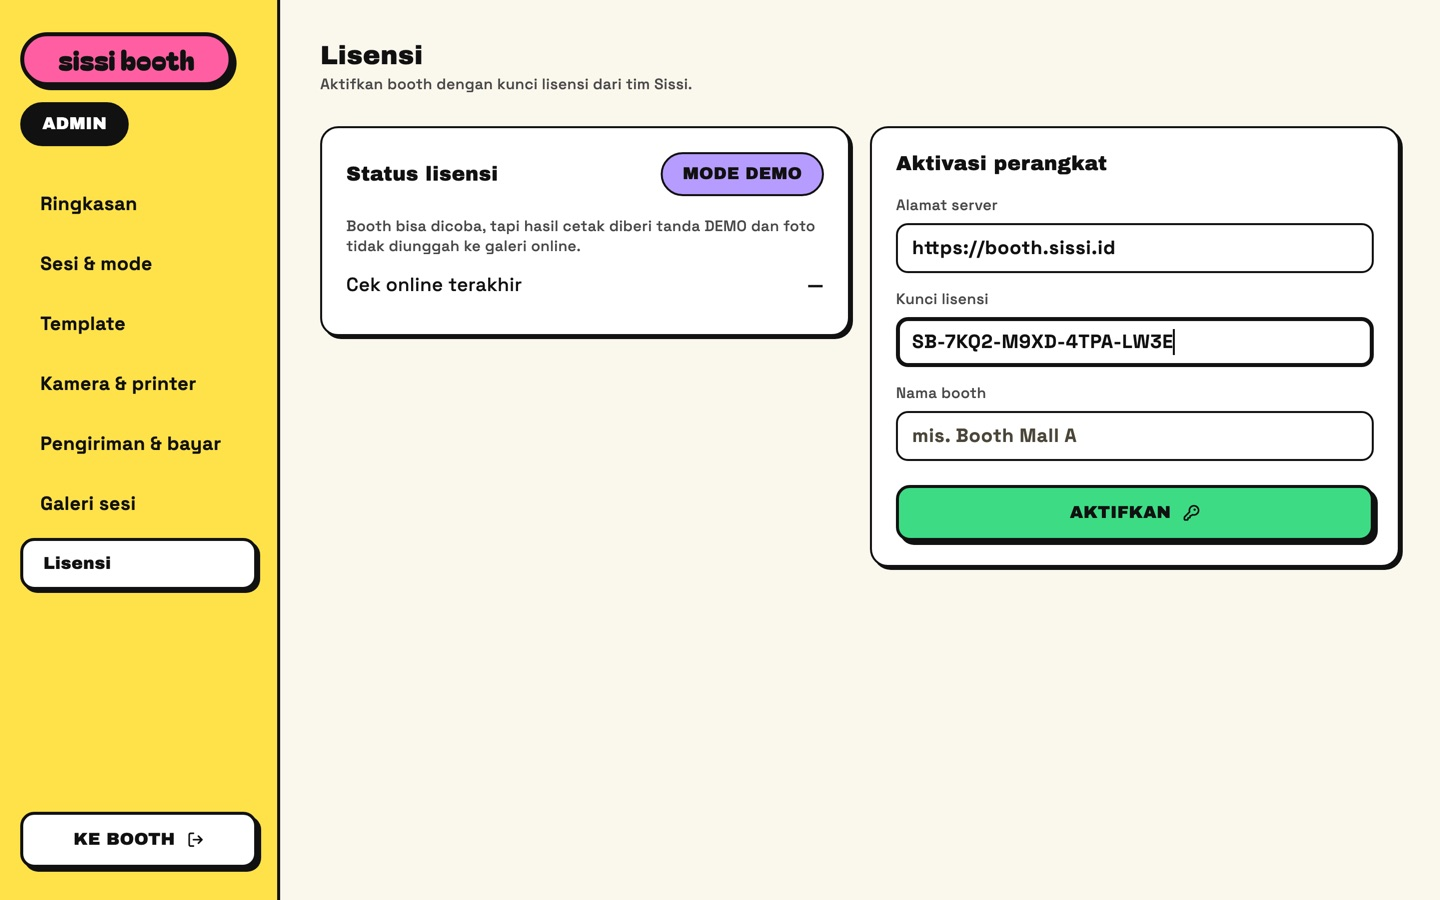
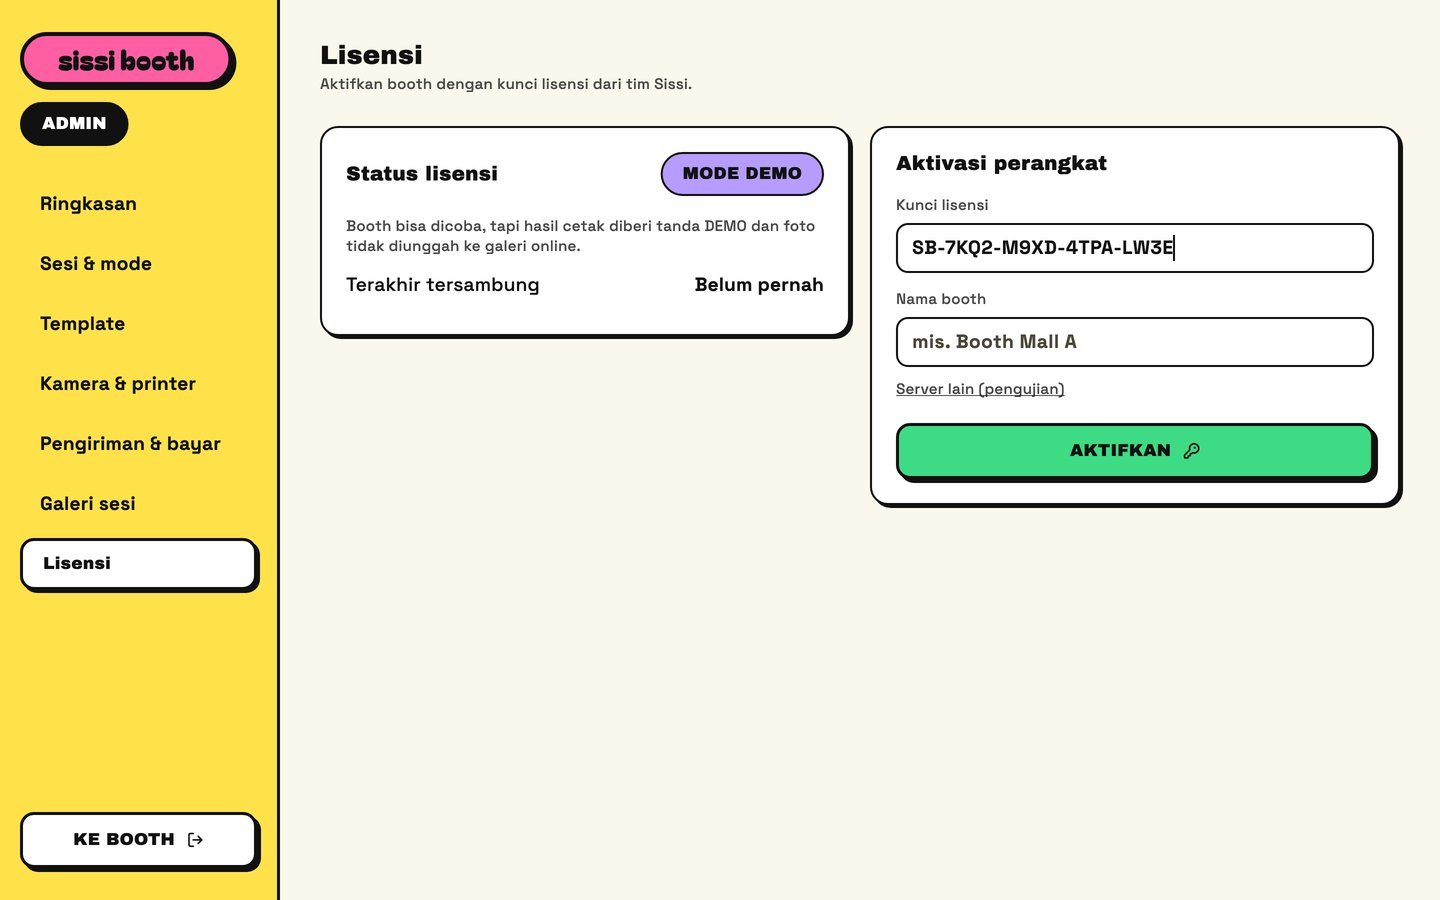
docs(panduan): harga QRIS segera hadir; gambar galeri & lisensi terbaru

diff --git a/src/constants/guides.ts b/src/constants/guides.ts
@@ -249,13 +249,13 @@ export const guides: Guide[] = [
       {
         id: "isi-kunci",
         title: "Isi kunci lisensi & nama booth",
-        body: "Cek alamat server (biasanya sudah terisi), ketik kunci lisensi, lalu beri nama booth supaya gampang dikenali, misalnya \"Booth Mall A\".",
-        shots: [img("aktifkan-lisensi", "nama.jpg", "Isian alamat server, kunci lisensi, dan nama booth")],
+        body: "Ketik kunci lisensi, lalu beri nama booth supaya gampang dikenali, misalnya \"Booth Mall A\". Alamat server sudah terisi otomatis.",
+        shots: [img("aktifkan-lisensi", "nama.jpg", "Isian kunci lisensi dan nama booth")],
       },
       {
         id: "aktifkan",
         title: "Ketuk AKTIFKAN",
-        body: "Ketuk AKTIFKAN. Setelah berhasil, status berubah jadi AKTIF dan terlihat paket, tanggal berlaku sampai, serta batas boleh offline.",
+        body: "Ketuk AKTIFKAN. Setelah berhasil, status berubah jadi AKTIF dan terlihat paket, tanggal berlaku sampai, serta batas boleh offline. Kartu aktivasi otomatis dilipat; buka lewat UBAH hanya bila ingin mengganti kunci atau nama booth.",
         shots: [img("aktifkan-lisensi", "aktif.jpg", "Status lisensi AKTIF dengan paket dan masa berlaku")],
         callout: { type: "info", title: "Butuh internet sekali", text: "Internet hanya diperlukan saat aktivasi. Setelah itu booth tetap bisa jalan tanpa internet." },
       },
@@ -453,7 +453,7 @@ export const guides: Guide[] = [
       },
     ],
     faqs: [
-      ["Harga di mode kiosk diatur di mana?", "Di menu Pengiriman & bayar. Lihat panduan Kirim softcopy & atur harga."],
+      ["Harga di mode kiosk diatur di mana?", "Di menu Pengiriman & bayar, begitu pembayaran QRIS siap. Sementara itu booth memakai mode event (tamu foto gratis)."],
       ["Perlu mulai ulang aplikasi setelah mengubah?", "Tidak. Perubahan langsung dipakai di sesi berikutnya."],
     ],
     related: ["softcopy-harga", "template-bingkai", "masuk-admin"],
@@ -598,9 +598,9 @@ export const guides: Guide[] = [
     no: "07",
     audience: "Pemilik booth",
     title: "Kirim softcopy & atur harga",
-    summary: "Pilih cara softcopy sampai ke HP tamu, atur Wi-Fi, lama simpan file, dan harga mode kiosk.",
+    summary: "Pilih cara softcopy sampai ke HP tamu, atur Wi-Fi dan lama simpan file. Harga mode kiosk segera hadir.",
     overview:
-      "Menu Pengiriman & bayar mengatur dua hal: bagaimana softcopy sampai ke HP tamu (lewat internet atau Wi-Fi booth) dan berapa harga tiap sesi di mode kiosk.",
+      "Menu Pengiriman & bayar mengatur bagaimana softcopy sampai ke HP tamu: lewat internet atau Wi-Fi booth. Pembayaran QRIS (mode kiosk) sedang disiapkan.",
     readTime: "3 menit baca",
     video: { id: "s3GxQdAnV08", duration: "0:48", uploaded: "2026-10-08T19:46:47-07:00" },
     prerequisites: ["Nama & sandi Wi-Fi yang dipakai laptop booth (Wi-Fi venue atau hotspot HP)", "Akses menu admin"],
@@ -630,10 +630,10 @@ export const guides: Guide[] = [
       },
       {
         id: "harga",
-        title: "Atur harga (mode kiosk)",
-        body: "Ketuk + atau − pada tiap layout; harga naik/turun Rp5.000 tiap ketukan dan langsung dipakai. Atur juga harga tambahan GIF untuk tamu yang memilih GIF Boomerang.",
-        shots: [img("softcopy-harga", "harga-klasik.jpg", "Harga per layout"), img("softcopy-harga", "harga-gif.jpg", "Harga tambahan GIF Boomerang")],
-        callout: { type: "info", title: "Mode event", text: "Di mode event tamu foto gratis, jadi harga tidak dipakai. Harga mulai berlaku setelah pembayaran QRIS (mode kiosk) siap." },
+        title: "Harga & pembayaran QRIS (segera hadir)",
+        body: "Mode kiosk, tempat tamu bayar sendiri lewat QRIS, sedang disiapkan. Sementara itu booth memakai mode event (tamu foto gratis), dan pengaturan harga per sesi muncul di kartu Pembayaran QRIS begitu fitur ini siap.",
+        shots: [img("softcopy-harga", "qris-segera.jpg", "Kartu Pembayaran QRIS bertanda segera hadir")],
+        callout: { type: "info", title: "Acara berbayar sekarang?", text: "Untuk sementara, catat nilai kontrak acaramu di dashboard pemilik (menu Acara) supaya keuntungan tetap terhitung." },
       },
     ],
     faqs: [

diff --git a/docs/PEKERJAAN.md b/docs/PEKERJAAN.md
@@ -16,6 +16,9 @@ _Tidak ada._
 
 ## Selesai
 
+- **2026-10-09** · Claude Opus 5.5 · Panduan softcopy-harga: langkah harga → "Harga & pembayaran QRIS (segera hadir)"
+  (gambar `qris-segera.jpg`; `harga-*.jpg` dihapus), FAQ harga diperbarui. Gambar galeri-sesi & aktifkan-lisensi diperbarui
+  (status "Belum selesai", QR menunggu unggah, form aktivasi dilipat, tanpa kolom server); teks langkah lisensi disesuaikan.
 - **2026-10-09** · Claude Opus 5.5 · Gambar `cara-foto/terima-kasih.jpg` diperbarui (layar terima kasih kini satu tombol).
 - **2026-10-09** · Claude Opus 5.5 · Panduan disesuaikan perubahan aplikasi: hias (tab STIKER, LANJUT CETAK; gambar
   `cara-foto/hias-filter.jpg` & `stiker-cubit.jpg` baru), mode kiosk "segera hadir" (sesi-mode & harga), petunjuk masuk admin.
